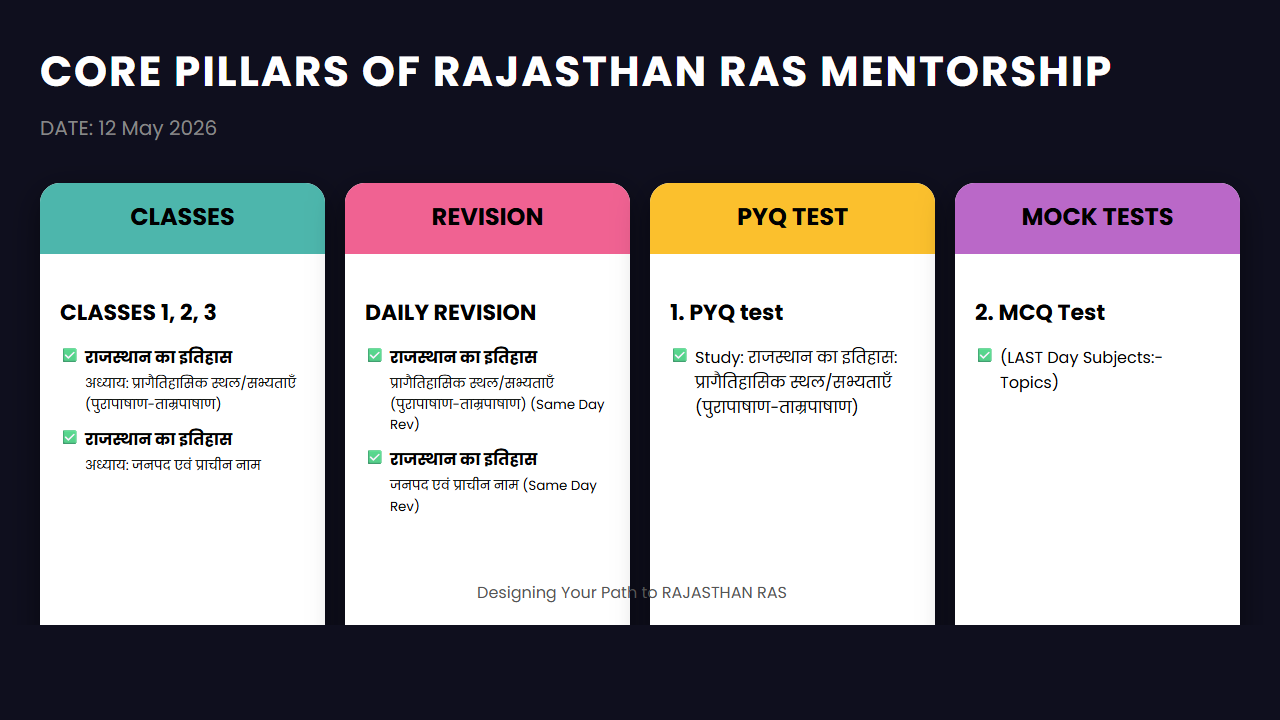
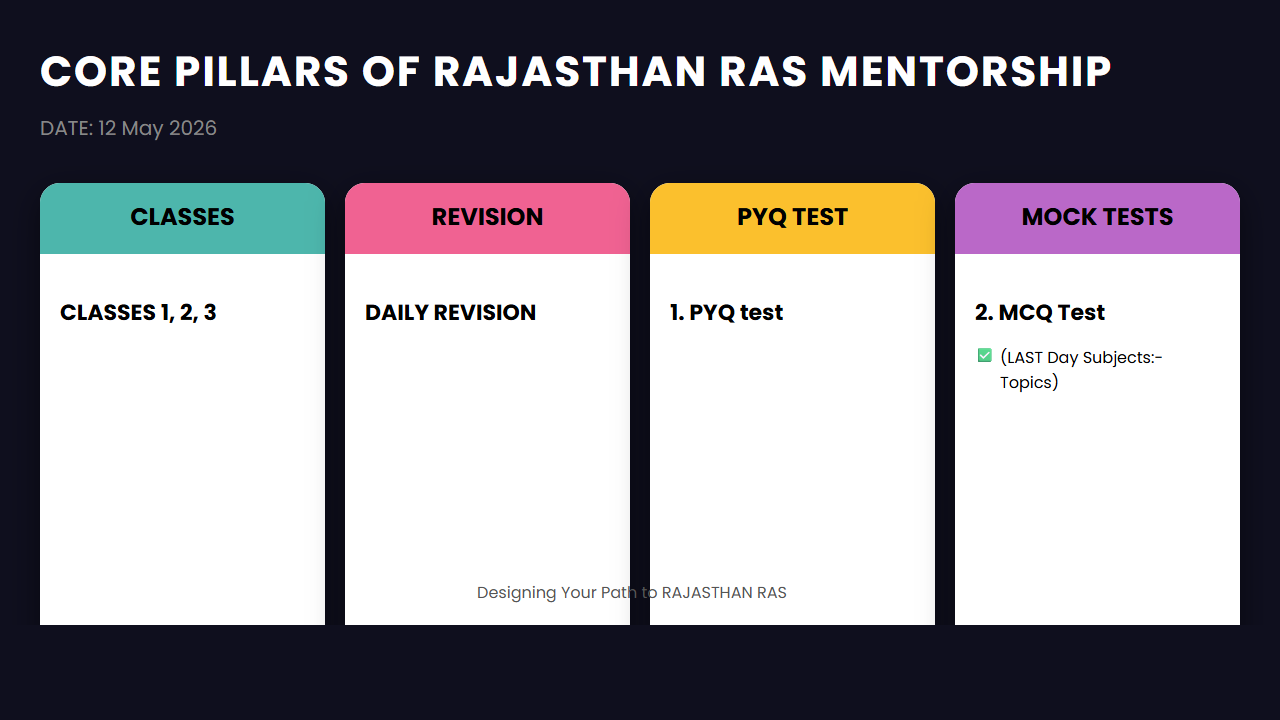
Final Secure Setup: R-Drive, Weekly Roadmap, and Fixes

Changed region(s): [[0.2812, 0.4889, 0.4688, 0.7028], [0.0312, 0.4889, 0.25, 0.6722], [0.5312, 0.4889, 0.7188, 0.5806]]

diff --git a/adaptive_logic.py b/adaptive_logic.py
@@ -68,27 +68,37 @@ def get_adaptive_tasks():
     
     classes_list, revisions = [], []
     
+    # Pre-clean headers for easier matching
+    clean_headers = [str(h).lower().strip().replace('\n', ' ') for h in headers]
+    
+    # Find column indices dynamically and reliably
+    col_map = {'section': 0, 'topic': 1, 'status': 13}
+    for i, h in enumerate(clean_headers):
+        if 'विषय' in h or 'section' in h: col_map['section'] = i
+        if 'topic' in h: col_map['topic'] = i
+        if 'status' in h: col_map['status'] = i
+        if 'study date' in h: col_map['study_date'] = i
+        if 'r1 date' in h: col_map['r1_date'] = i
+
     for row in sheet.iter_rows(min_row=header_row + 1, values_only=True):
-        if not any(row) or len(row) < 2: continue
+        if not row or len(row) <= max(col_map.values()): continue
+        
         section = str(row[col_map['section']]).strip() if row[col_map['section']] else ""
         topic = str(row[col_map['topic']]).strip() if row[col_map['topic']] else ""
-        status = str(row[col_map['status']]).strip().lower() if col_map['status'] < len(row) and row[col_map['status']] else ""
+        status = str(row[col_map['status']]).strip().lower() if row[col_map['status']] else ""
         
-        # 1. Classes Logic (Limit to 2)
-        # Sequence is critical. We pick the first 2 pending topics in order.
+        if not topic or status == "done": continue
+        
+        # Priority Logic: Weekday vs Weekend
         is_history = "इतिहास" in section
-        is_weekend = today.weekday() >= 5
-        
-        # Priority: On weekdays show History, on weekends show others.
-        # But NEVER skip a pending topic if it matches the day's priority.
         match_priority = (not is_weekend and is_history) or (is_weekend and not is_history)
         
-        if status != "done" and len(classes_list) < 2:
-            if match_priority:
+        if len(classes_list) < 2:
+            if match_priority or len(classes_list) > 0: # If we have 1, pick the next one regardless to fill space
                 classes_list.append({'subject': section, 'topic': topic})
                 revisions.append({'subject': section, 'topic': f"{topic} (Same Day Rev)"})
-            elif not any(is_history == ("इतिहास" in s['subject']) for s in classes_list) and len(classes_list) == 0:
-                # Fallback if the priority subject is not found at all, pick the next available
+            elif not match_priority and len(classes_list) == 0:
+                # If even the first one doesn't match priority, we still pick it to avoid empty plan
                 classes_list.append({'subject': section, 'topic': topic})
                 revisions.append({'subject': section, 'topic': f"{topic} (Same Day Rev)"})
             

diff --git a/image_generator.py b/image_generator.py
@@ -25,8 +25,13 @@ def create_pillar_schedule_image(tasks_data):
     for rev in revisions[:3]:
         revisions_html += f"<li><strong>{rev['subject']}</strong><br><small>{rev['topic']}</small></li>"
 
-    t0 = tasks_data[0]
-    pyq_topic = f"{t0.get('subject')}: {t0.get('topic')}" if t0.get('topic') else t0.get('subject')
+    # Prepare PYQ Test Section (Show all assigned topics)
+    pyq_topics_html = ""
+    for task in [tasks_data[0], tasks_data[1]]:
+        sub = task.get('subject', '')
+        top = task.get('topic', '')
+        if sub and '[' not in sub:
+            pyq_topics_html += f"<li>Study: {sub}: {top}</li>"
 
     html_content = f"""
     <!DOCTYPE html>
@@ -151,7 +156,7 @@ def create_pillar_schedule_image(tasks_data):
                 <div class="card-header pyq-h">PYQ TEST</div>
                 <div class="content">
                     <h3>1. PYQ test</h3>
-                    <ul><li>Study: {pyq_topic}</li></ul>
+                    <ul>{pyq_topics_html}</ul>
                 </div>
             </div>
             <div class="card">

diff --git a/excel_generator.py b/excel_generator.py
@@ -41,8 +41,14 @@ def generate_topic_excel(topic_name):
         try:
             wb = openpyxl.load_workbook(f, data_only=True, read_only=True)
             ws = wb['PYQ Bank']
+            # Smart Match: Clean topic name (remove brackets)
+            clean_topic = topic_name.split('(')[0].strip().lower()
+            keywords = [k for k in clean_topic.split() if len(k) > 2]
+            
             for row in ws.iter_rows(min_row=4, values_only=True):
-                if topic_name.lower() in str(row[1]).lower() or topic_name.lower() in str(row[2]).lower():
+                target_text = f"{str(row[1])} {str(row[2])}".lower()
+                # If the main topic name is in the row, or at least 2 keywords match
+                if clean_topic in target_text or (keywords and sum(1 for k in keywords if k in target_text) >= 1):
                     all_questions.append(row)
         except: pass
 